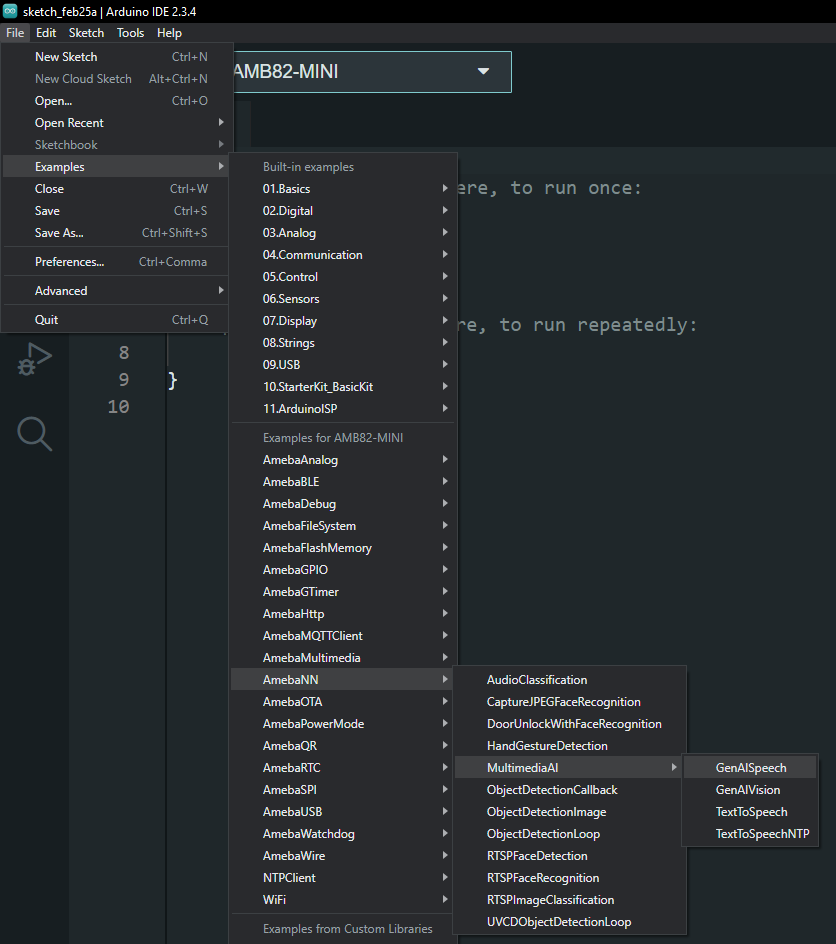
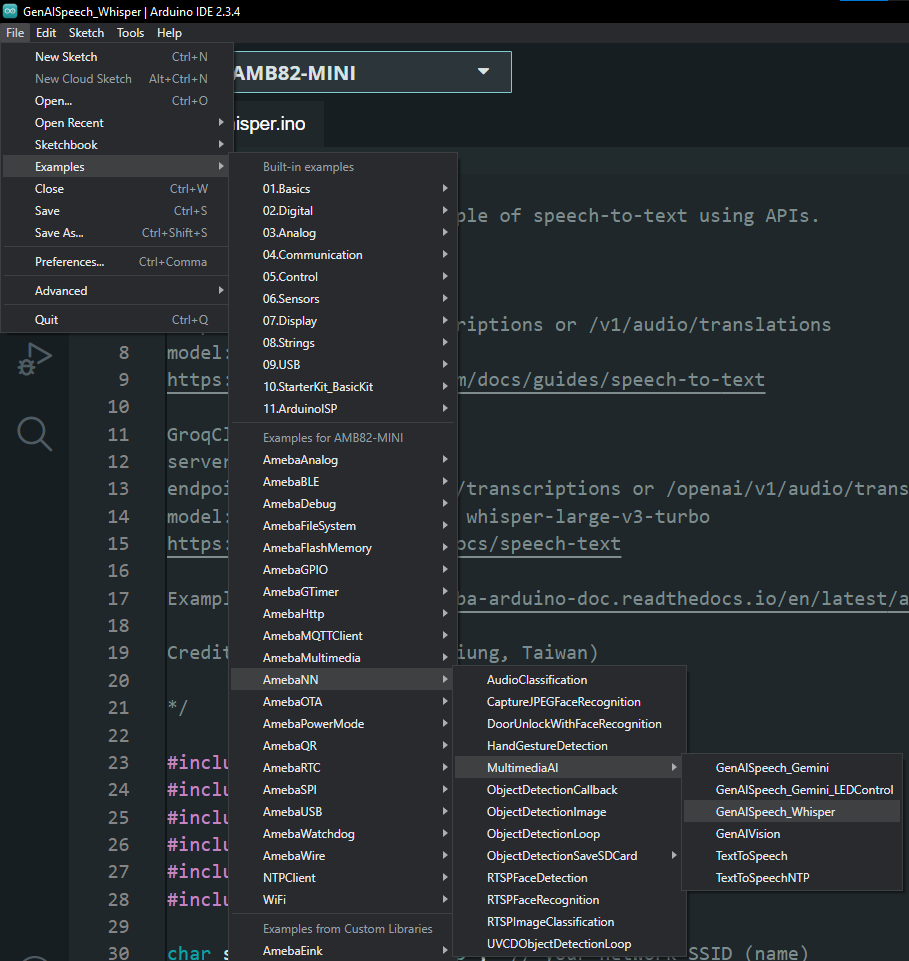
Update GenAISpeech Gemini example guide
- GenAISpeech_Gemini
- GenAISpeech_Gemini_LEDControl

diff --git a/source/ameba_pro2/amb82-mini/Example_Guides/Neural Network/Generative AI Speech.rst b/source/ameba_pro2/amb82-mini/Example_Guides/Neural Network/Generative AI Speech.rst
@@ -24,9 +24,12 @@ Materials
 Example 
 -------
 
+GenAISpeech_Whisper
+~~~~~~~~~~~~~~~~~~~
+
 In this example, we will be using Ameba Pro2 development board to record and send audio recording to LLM server for voice transcription or translation.
 
-Open Generative AI Speech example in "File" -> "Examples" -> "AmebaNN" -> "MultimediaAI" -> "GenAISpeech".
+Open Generative AI Speech Whisper example in "File" -> "Examples" -> "AmebaNN" -> "MultimediaAI" -> "GenAISpeech_Whisper".
 
 |image01|
 
@@ -58,23 +61,79 @@ Press button for 2s and wait for the green LED to light up, then speak into the 
 
 Transcription or translation of the audio file will be printed out on serial monitor.
 
+GenAISpeech_Gemini
+~~~~~~~~~~~~~~~~~~
+
+Open Generative AI Speech Gemini example in "File" -> "Examples" -> "AmebaNN" -> "MultimediaAI" -> "GenAISpeech_Gemini".
+
+|image06|
+
+| Fill in the "ssid" with your WiFi network SSID and "pass" with the network password.
+| Then, fill in your Gemini api key.
+| You may also modify the recording duration and filename.
+
+|image07|
+
+Connect the pushbutton and resistor to AMB82 Mini as shown below.
+
+|image05|
+
+Compile and run the example.
+
+Open the serial monitor to view the logs.
+
+Press button once, recording will start after 3 seconds of blue LED blinking, then speak into the microphone within the pre-defined recording duration.
+
+Response from Gemini will be printed out on serial monitor.
+
+GenAISpeech_Gemini_LEDControl
+~~~~~~~~~~~~~~~~~~~~~~~~~~~~~
+
+Open Generative AI Speech Gemini example in "File" -> "Examples" -> "AmebaNN" -> "MultimediaAI" -> "GenAISpeech_Gemini_LEDControl".
+
+|image08|
+
+| Fill in the "ssid" with your WiFi network SSID and "pass" with the network password.
+| Then, fill in your Gemini api key.
+
+|image09|
+
+Connect the pushbutton and resistor to AMB82 Mini as shown below.
+
+|image05|
+
+Compile and run the example.
+
+Open the serial monitor to view the logs.
+
+Press button once, recording will start after 3 seconds of blue LED blinking, then speak "LED ON" into the microphone within the pre-defined recording duration.
+
+The green LED will be on subsequently.
+
+You may try the vice versa as well.
+
+
 Online LLM Models
 -----------------
 Various online servers and LLM models featured in the SDK:
 
-+--------------------------------+----------------------------------+----------------------------------+-----------------------------------------------+-----------------------------+---------------------------------+
-| **Server**                     | **Transcription Endpoint**       | **Translation Endpoint**         | **Model**                                     | **Rate Limit**              | **Pricing**                     |
-+================================+==================================+==================================+===============================================+=============================+=================================+
-| api.openai.com                 |  /v1/audio/transcriptions        |  /v1/audio/translations          | whisper-1                                     | 500 RPM                     | Chargeable (Tier 1)             |
-+--------------------------------+----------------------------------+----------------------------------+-----------------------------------------------+-----------------------------+---------------------------------+
-| api.groq.com                   |  /openai/v1/audio/transcriptions |  /openai/v1/audio/translations   | whisper-large-v3-turbo or whisper-large-v3    | 20 RPM                      | Free of charge                  |
-+--------------------------------+----------------------------------+----------------------------------+-----------------------------------------------+-----------------------------+---------------------------------+
++------------------------------------+----------------------------------+----------------------------------+-----------------------------------------------+-----------------------------+---------------------------------+
+| **Host**                           | **Transcription Endpoint**       | **Translation Endpoint**         | **Model**                                     | **Rate Limit**              | **Pricing**                     |
++====================================+==================================+==================================+===============================================+=============================+=================================+
+| api.openai.com                     |  /v1/audio/transcriptions        |  /v1/audio/translations          | whisper-1                                     | 500 RPM                     | Chargeable (Tier 1)             |
++------------------------------------+----------------------------------+----------------------------------+-----------------------------------------------+-----------------------------+---------------------------------+
+| api.groq.com                       |  /openai/v1/audio/transcriptions |  /openai/v1/audio/translations   | whisper-large-v3-turbo or whisper-large-v3    | 20 RPM                      | Free of charge                  |
++------------------------------------+----------------------------------+----------------------------------+-----------------------------------------------+-----------------------------+---------------------------------+
+| generativelanguage.googleapis.com  |  /v1beta/models/<model>                                             | gemini-2.0-flash                              | 15 RPM                      | Free of charge                  |
++------------------------------------+----------------------------------+----------------------------------+-----------------------------------------------+-----------------------------+---------------------------------+
 
 **Rate Limit References**
 
 openAI: https://platform.openai.com/docs/guides/rate-limits?context=tier-one#usage-tiers
 
 GroqCloud: https://console.groq.com/settings/limits
+
+Google AI Studio: https://ai.google.dev/gemini-api/docs/rate-limits
 
 Resources
 ---------
@@ -83,27 +142,53 @@ Resources
 | https://platform.openai.com/docs/guides/speech-to-text
 
 | GroqCloud 
-| https://console.groq.com/docs/speech-text 
+| https://console.groq.com/docs/speech-text
+
+| Google AI Studio
+| https://ai.google.dev/gemini-api/docs/audio?lang=rest
 
 .. |image01| image:: ../../../../_static/amebapro2/Example_Guides/Neural_Network/Neural_Network_-_Generative_AI_Speech/image01.png
-   :width:  836 px
-   :height:  944 px
+   :width:  909 px
+   :height:  961 px
+   :scale: 80%
 
 .. |image02| image:: ../../../../_static/amebapro2/Example_Guides/Neural_Network/Neural_Network_-_Generative_AI_Speech/image02.png
    :width:  978 px
    :height:  768 px
+   :scale: 80%
 
 .. |image03| image:: ../../../../_static/amebapro2/Example_Guides/Neural_Network/Neural_Network_-_Generative_AI_Speech/image03.png
    :width:  956 px
    :height:  758 px
+   :scale: 80%
 
 .. |image04| image:: ../../../../_static/amebapro2/Example_Guides/Neural_Network/Neural_Network_-_Generative_AI_Speech/image04.png
    :width:  960 px
    :height:  321 px
+   :scale: 80%
 
 .. |image05| image:: ../../../../_static/amebapro2/Example_Guides/Neural_Network/Neural_Network_-_Generative_AI_Speech/image05.png
    :width:  988 px
    :height:  802 px
+   :scale: 80%
+
+.. |image06| image:: ../../../../_static/amebapro2/Example_Guides/Neural_Network/Neural_Network_-_Generative_AI_Speech/image06.png
+   :width:  912 px
+   :height:  960 px
+   :scale: 80%
+
+.. |image07| image:: ../../../../_static/amebapro2/Example_Guides/Neural_Network/Neural_Network_-_Generative_AI_Speech/image07.png
+   :width:  755 px
+   :height:  169 px
+
+.. |image08| image:: ../../../../_static/amebapro2/Example_Guides/Neural_Network/Neural_Network_-_Generative_AI_Speech/image08.png
+   :width:  908 px
+   :height:  897 px
+   :scale: 80%
+
+.. |image09| image:: ../../../../_static/amebapro2/Example_Guides/Neural_Network/Neural_Network_-_Generative_AI_Speech/image09.png
+   :width:  813 px
+   :height:  152 px
 
 .. |image_ameba_iot| image:: ../../../../_static/ameba_iot_logo.png
    :scale: 40%

diff --git a/source/ameba_pro2/amb82-mini/Example_Guides/Neural Network/Generative AI Vision.rst b/source/ameba_pro2/amb82-mini/Example_Guides/Neural Network/Generative AI Vision.rst
@@ -62,7 +62,7 @@ Various online servers and LLM models featured in the SDK:
 
 openAI: https://platform.openai.com/docs/guides/rate-limits?context=tier-one#usage-tiers
 
-Google AI Studio: https://ai.google.dev/pricing#1_5flash
+Google AI Studio: https://ai.google.dev/gemini-api/docs/rate-limits
 
 GroqCloud: https://console.groq.com/settings/limits
 
